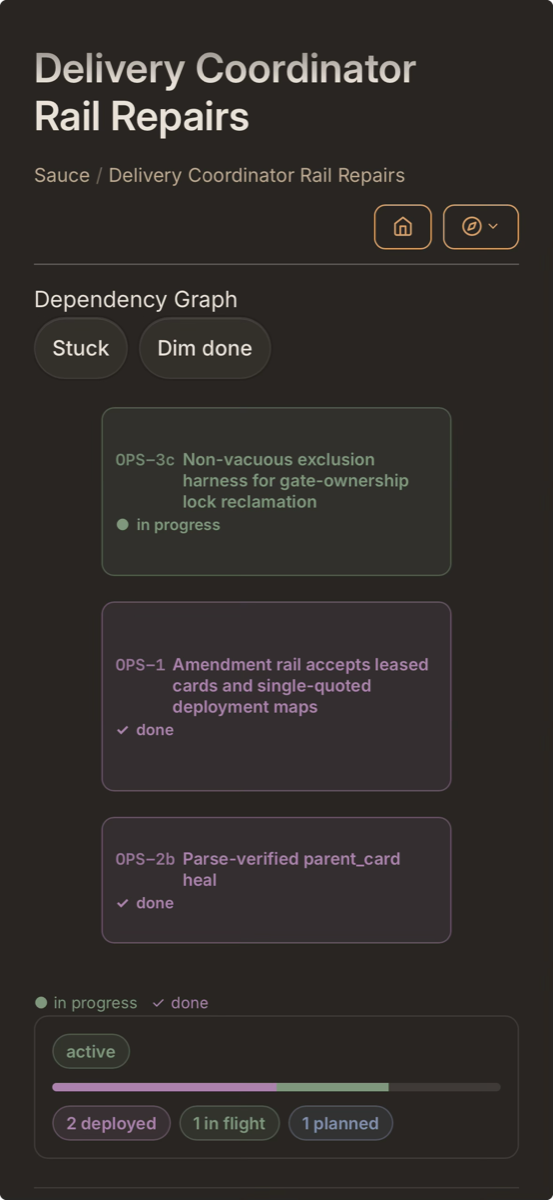
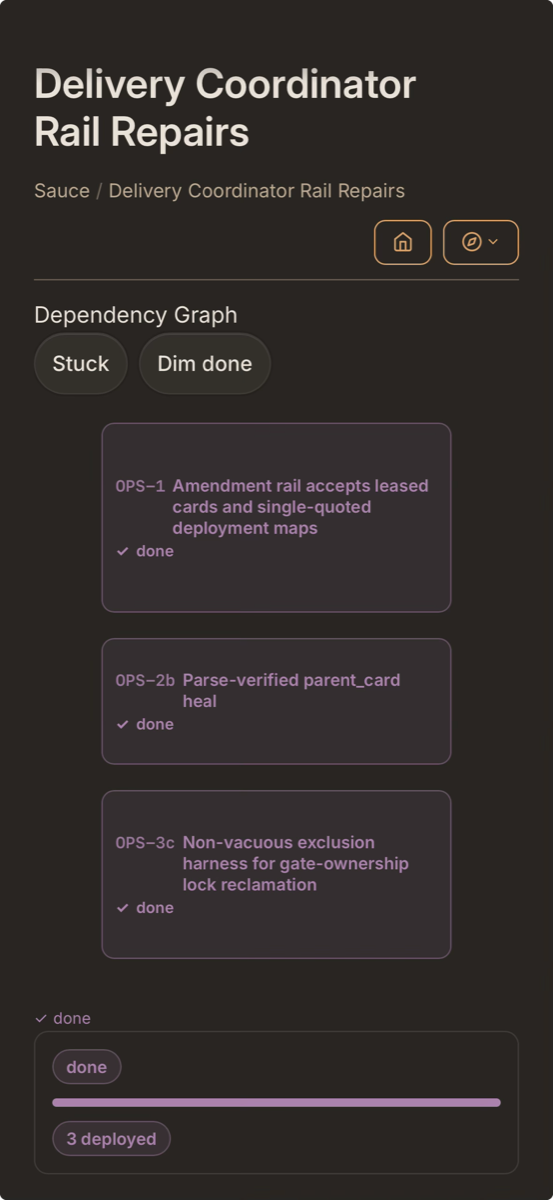
docs(readme): replace the epic rollup screenshot with the current three-deployed view
The old screenshot showed a rollup counting a superseded slice as planned
work, a bug fixed in v0.292.1 (#857), and its caption explained that. Every
slice in the epic has since shipped, so the new capture shows three done
cards and a rollup reading 3 deployed. The caption and alt text now describe
only what the image shows. The image is downscaled to the previous 553x1200.

Claude-Session: https://claude.ai/code/session_01FnkXomfua9qX6uMCRmRA53

diff --git a/README.md b/README.md
@@ -43,10 +43,10 @@ Nodes run to completion inside a tick. Edges decide what runs next, with per-edg
 Work lives in the vault, so you read it the way you read any other note, including on a phone. These show the project blueprint's read-only views over the delivery board that the coordinator drives and the `mayo` plugin fronts, drawn from the same card notes the coordinator writes.
 
 <p align="center">
-  <img src="Docs/images/epic-atlas-slices-rollup.png" width="320" alt="An epic note in Obsidian on a phone, titled Delivery Coordinator Rail Repairs. A dependency graph lists three slice cards: OPS-3c in progress, OPS-1 done, OPS-2b done. Below them a rollup bar labelled active, with chips reading 2 deployed, 1 in flight, 1 planned.">
+  <img src="Docs/images/epic-atlas-slices-rollup.png" width="320" alt="An epic note titled Delivery Coordinator Rail Repairs. A dependency graph lists three slice cards, OPS-1, OPS-2b and OPS-3c, each marked done. Below them a rollup labelled done shows a full progress bar and a chip reading 3 deployed.">
 </p>
 
-One epic and its slices, with a rollup underneath. In this screenshot the graph draws three cards while the rollup counts four. That fourth count was a bug: OPS-3b had been superseded by OPS-3c, and the rollup was counting it as planned work. Captioning this image is how it was found; it was fixed in v0.292.1 (#857), and the screenshot predates the fix.
+One epic and its slices, with a rollup underneath. All three slices are done, and the rollup counts three deployed. Slices they superseded are not drawn and not counted.
 
 <p align="center">
   <img src="Docs/images/dependency-graph-cross-epic.png" width="720" alt="A partial view of a dependency graph in Obsidian. Two slice cards are legible, PERF-9a in progress and PERF-10a done. To their right is a dashed node whose label is cut off by the edge of the screenshot. Further cards and an incoming arrow are partly hidden behind the mobile toolbar and the frame edge. Filter chips above read Stuck and Dim done.">
